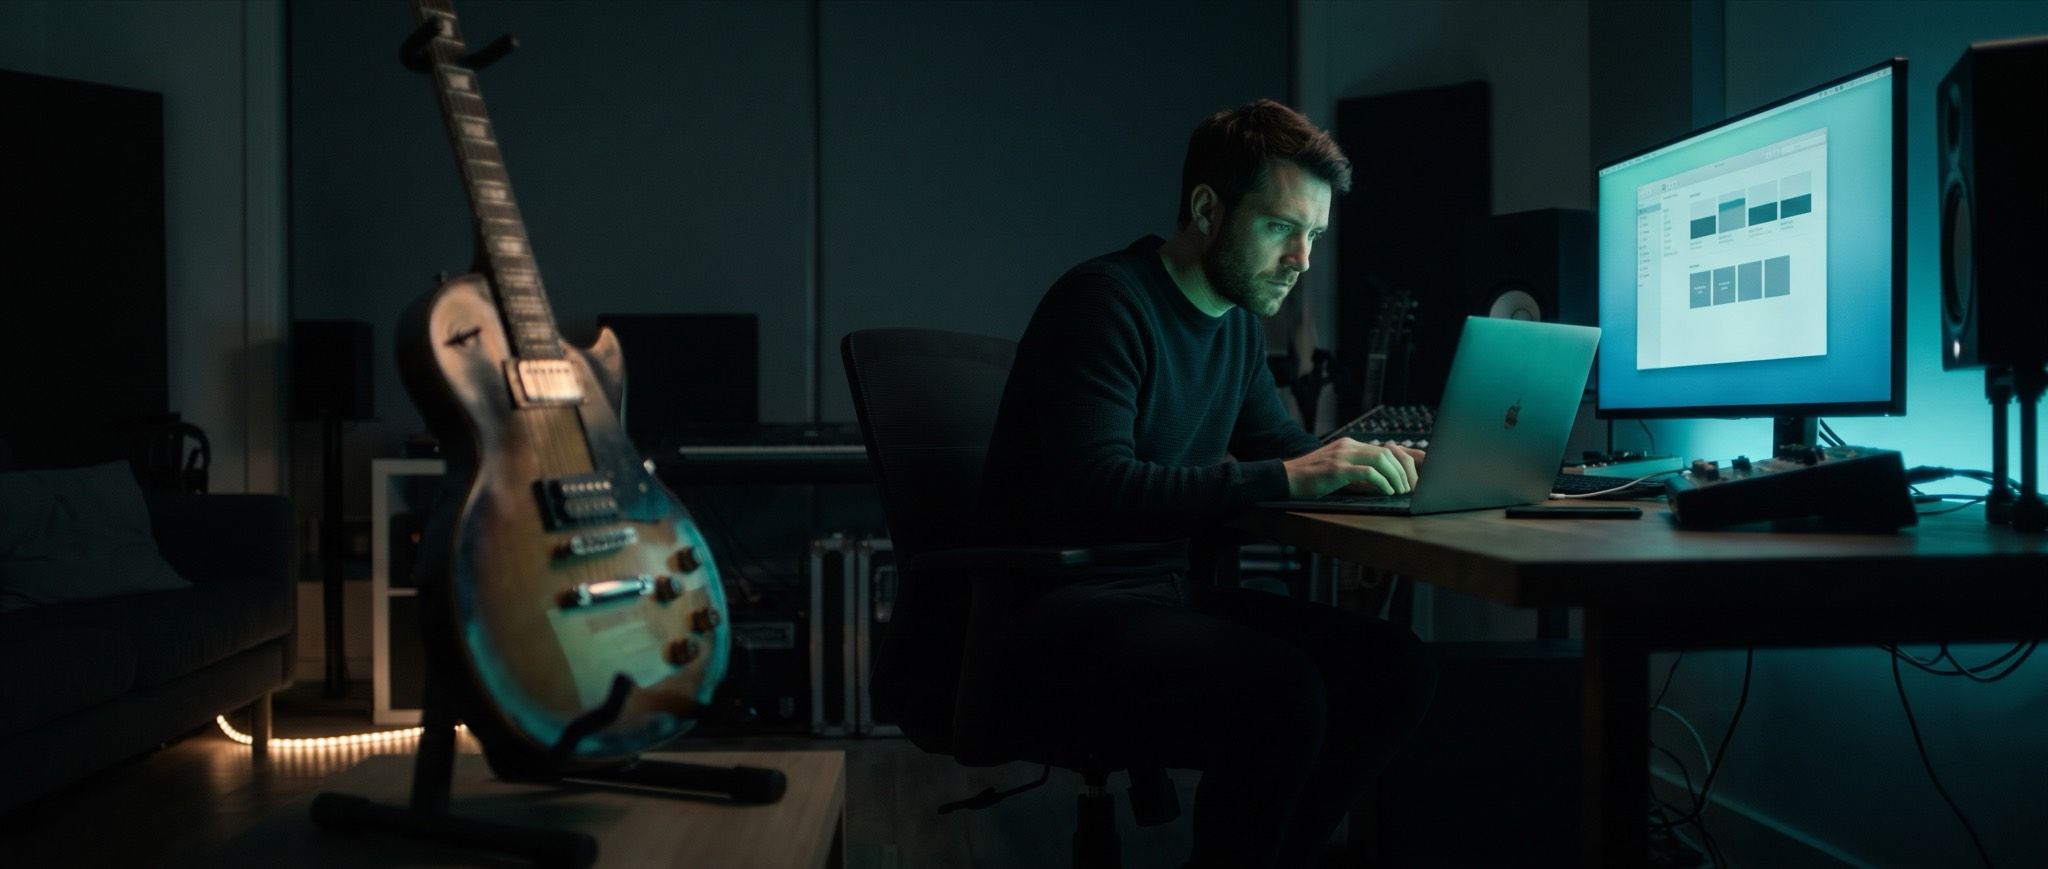
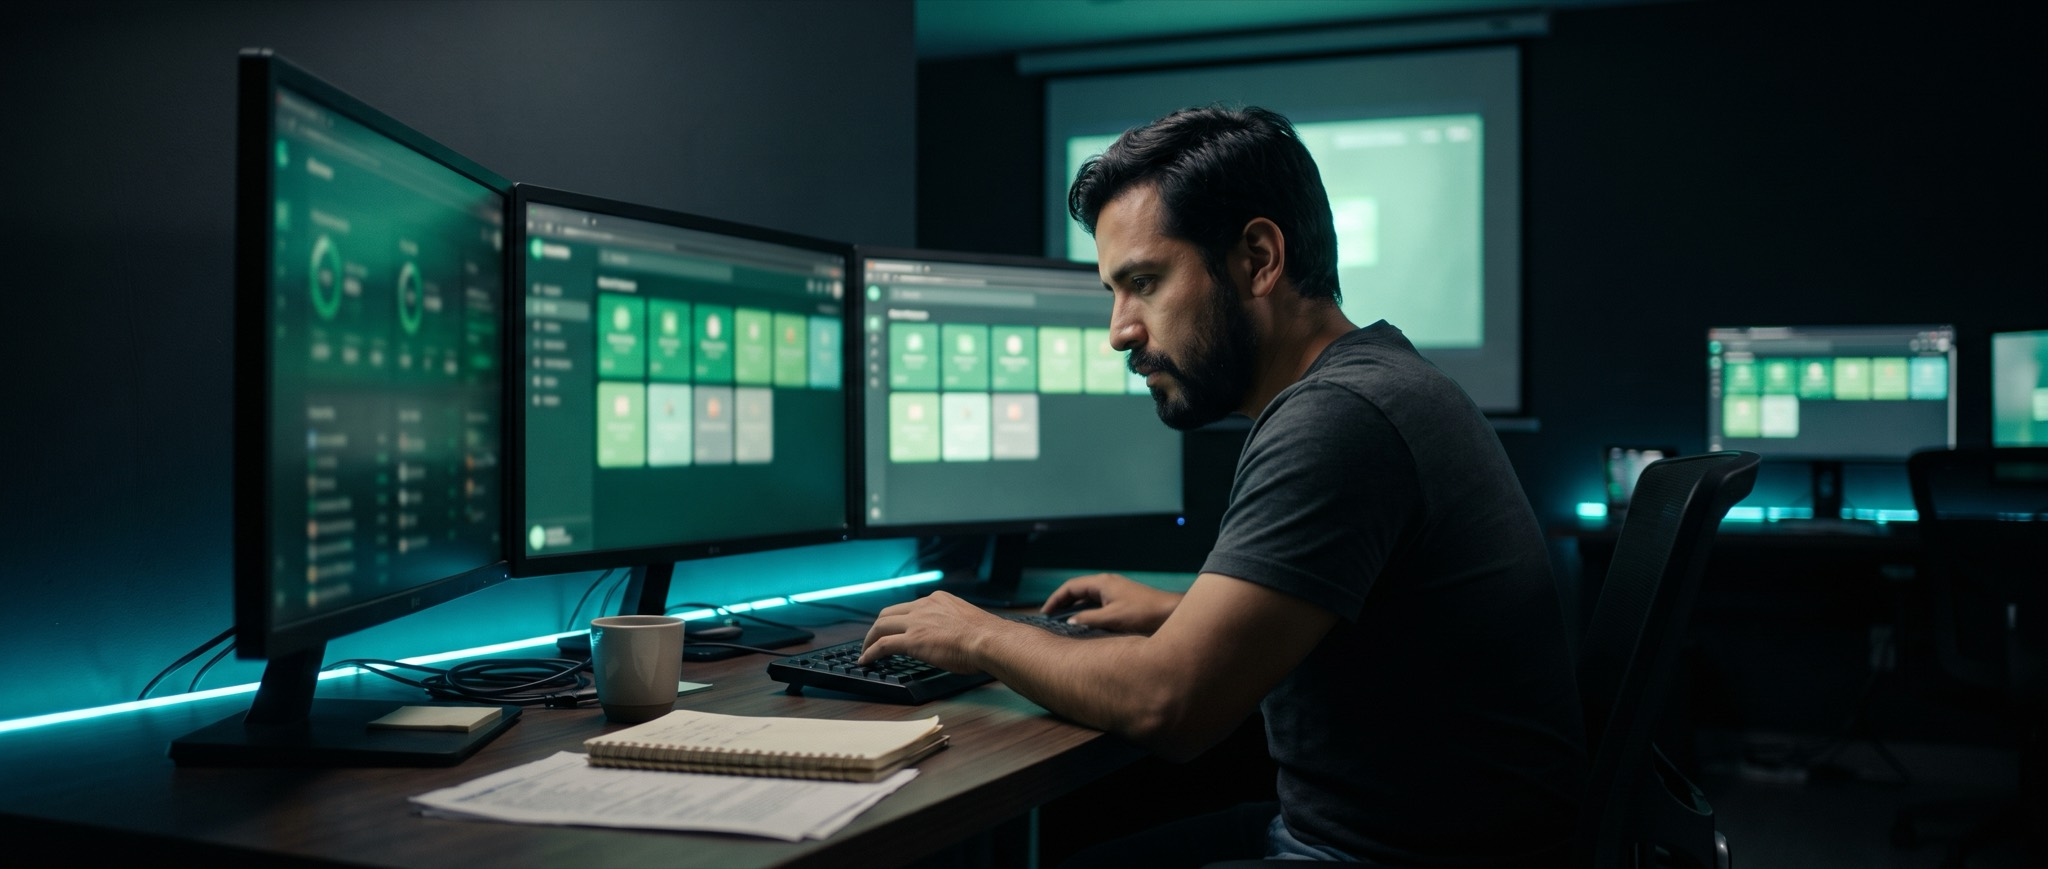
feat(home): reposition around AI expertise, drop the music narrative
- Headline/subline/story card now lead with 6+ years shipping
  production software; music story remains only on /about
- Stats: hackathon tile (linked to hidden /work, 404) replaced by
  a 6+ years experience tile
- New hero (multi-monitor workstation) and experience card images
  in the same art direction; guitar imagery removed from home

diff --git a/src/components/Stats.tsx b/src/components/Stats.tsx
@@ -1,15 +1,12 @@
 "use client";
 
 import { useEffect, useRef, useState } from "react";
-import { useLocale, useTranslations } from "next-intl";
-import { Column, Grid, Icon, SmartLink, Text } from "@/once-ui/components";
-import { localizeHref } from "@/i18n/routing";
+import { useTranslations } from "next-intl";
+import { Column, Grid, Text } from "@/once-ui/components";
 import styles from "./Stats.module.scss";
 
-const STAT_KEYS = ["transactions", "users", "lcp", "hackathon"] as const;
+const STAT_KEYS = ["experience", "transactions", "users", "lcp"] as const;
 type StatKey = (typeof STAT_KEYS)[number];
-
-const HACKATHON_HREF = "/work/hackathon-samatech";
 
 /** Splits "$2M+" into { prefix: "$", target: 2, suffix: "M+" } for the count-up. */
 function parseValue(value: string) {
@@ -66,51 +63,29 @@ function CountUpValue({ value }: { value: string }) {
 
 export function Stats() {
   const t = useTranslations("stats");
-  const locale = useLocale();
 
   return (
     <Grid columns="4" tabletColumns="2" mobileColumns="2" gap="12" fillWidth>
-      {STAT_KEYS.map((key: StatKey) => {
-        const tile = (
-          <Column
-            key={key}
-            fillWidth
-            fillHeight
-            gap="4"
-            padding="m"
-            radius="l"
-            border="neutral-alpha-weak"
-            background="surface"
-            className={styles.tile}
-          >
-            <Text variant="display-strong-xs" onBackground="brand-strong">
-              {key === "hackathon" && (
-                <Icon name="trophy" size="s" marginRight="8" onBackground="brand-weak" />
-              )}
-              <CountUpValue value={t(`items.${key}.value`)} />
-            </Text>
-            <Text variant="label-default-s" onBackground="neutral-weak" wrap="balance">
-              {t(`items.${key}.label`)}
-            </Text>
-          </Column>
-        );
-
-        if (key === "hackathon") {
-          return (
-            <SmartLink
-              key={key}
-              unstyled
-              fillWidth
-              href={localizeHref(locale, HACKATHON_HREF)}
-              aria-label={`${t("items.hackathon.value")} ${t("items.hackathon.label")}`}
-            >
-              {tile}
-            </SmartLink>
-          );
-        }
-
-        return tile;
-      })}
+      {STAT_KEYS.map((key: StatKey) => (
+        <Column
+          key={key}
+          fillWidth
+          fillHeight
+          gap="4"
+          padding="m"
+          radius="l"
+          border="neutral-alpha-weak"
+          background="surface"
+          className={styles.tile}
+        >
+          <Text variant="display-strong-xs" onBackground="brand-strong">
+            <CountUpValue value={t(`items.${key}.value`)} />
+          </Text>
+          <Text variant="label-default-s" onBackground="neutral-weak" wrap="balance">
+            {t(`items.${key}.label`)}
+          </Text>
+        </Column>
+      ))}
     </Grid>
   );
 }

diff --git a/src/app/[locale]/page.tsx b/src/app/[locale]/page.tsx
@@ -277,7 +277,7 @@ export default async function Home({ params: { locale } }: PageParams) {
             <Flex flex={5} vertical="center">
               <SmartImage
                 className={brand.media}
-                src="/images/home/story.jpg"
+                src="/images/home/experience.jpg"
                 alt={home.story.imageAlt}
                 aspectRatio="4 / 3"
                 radius="l"